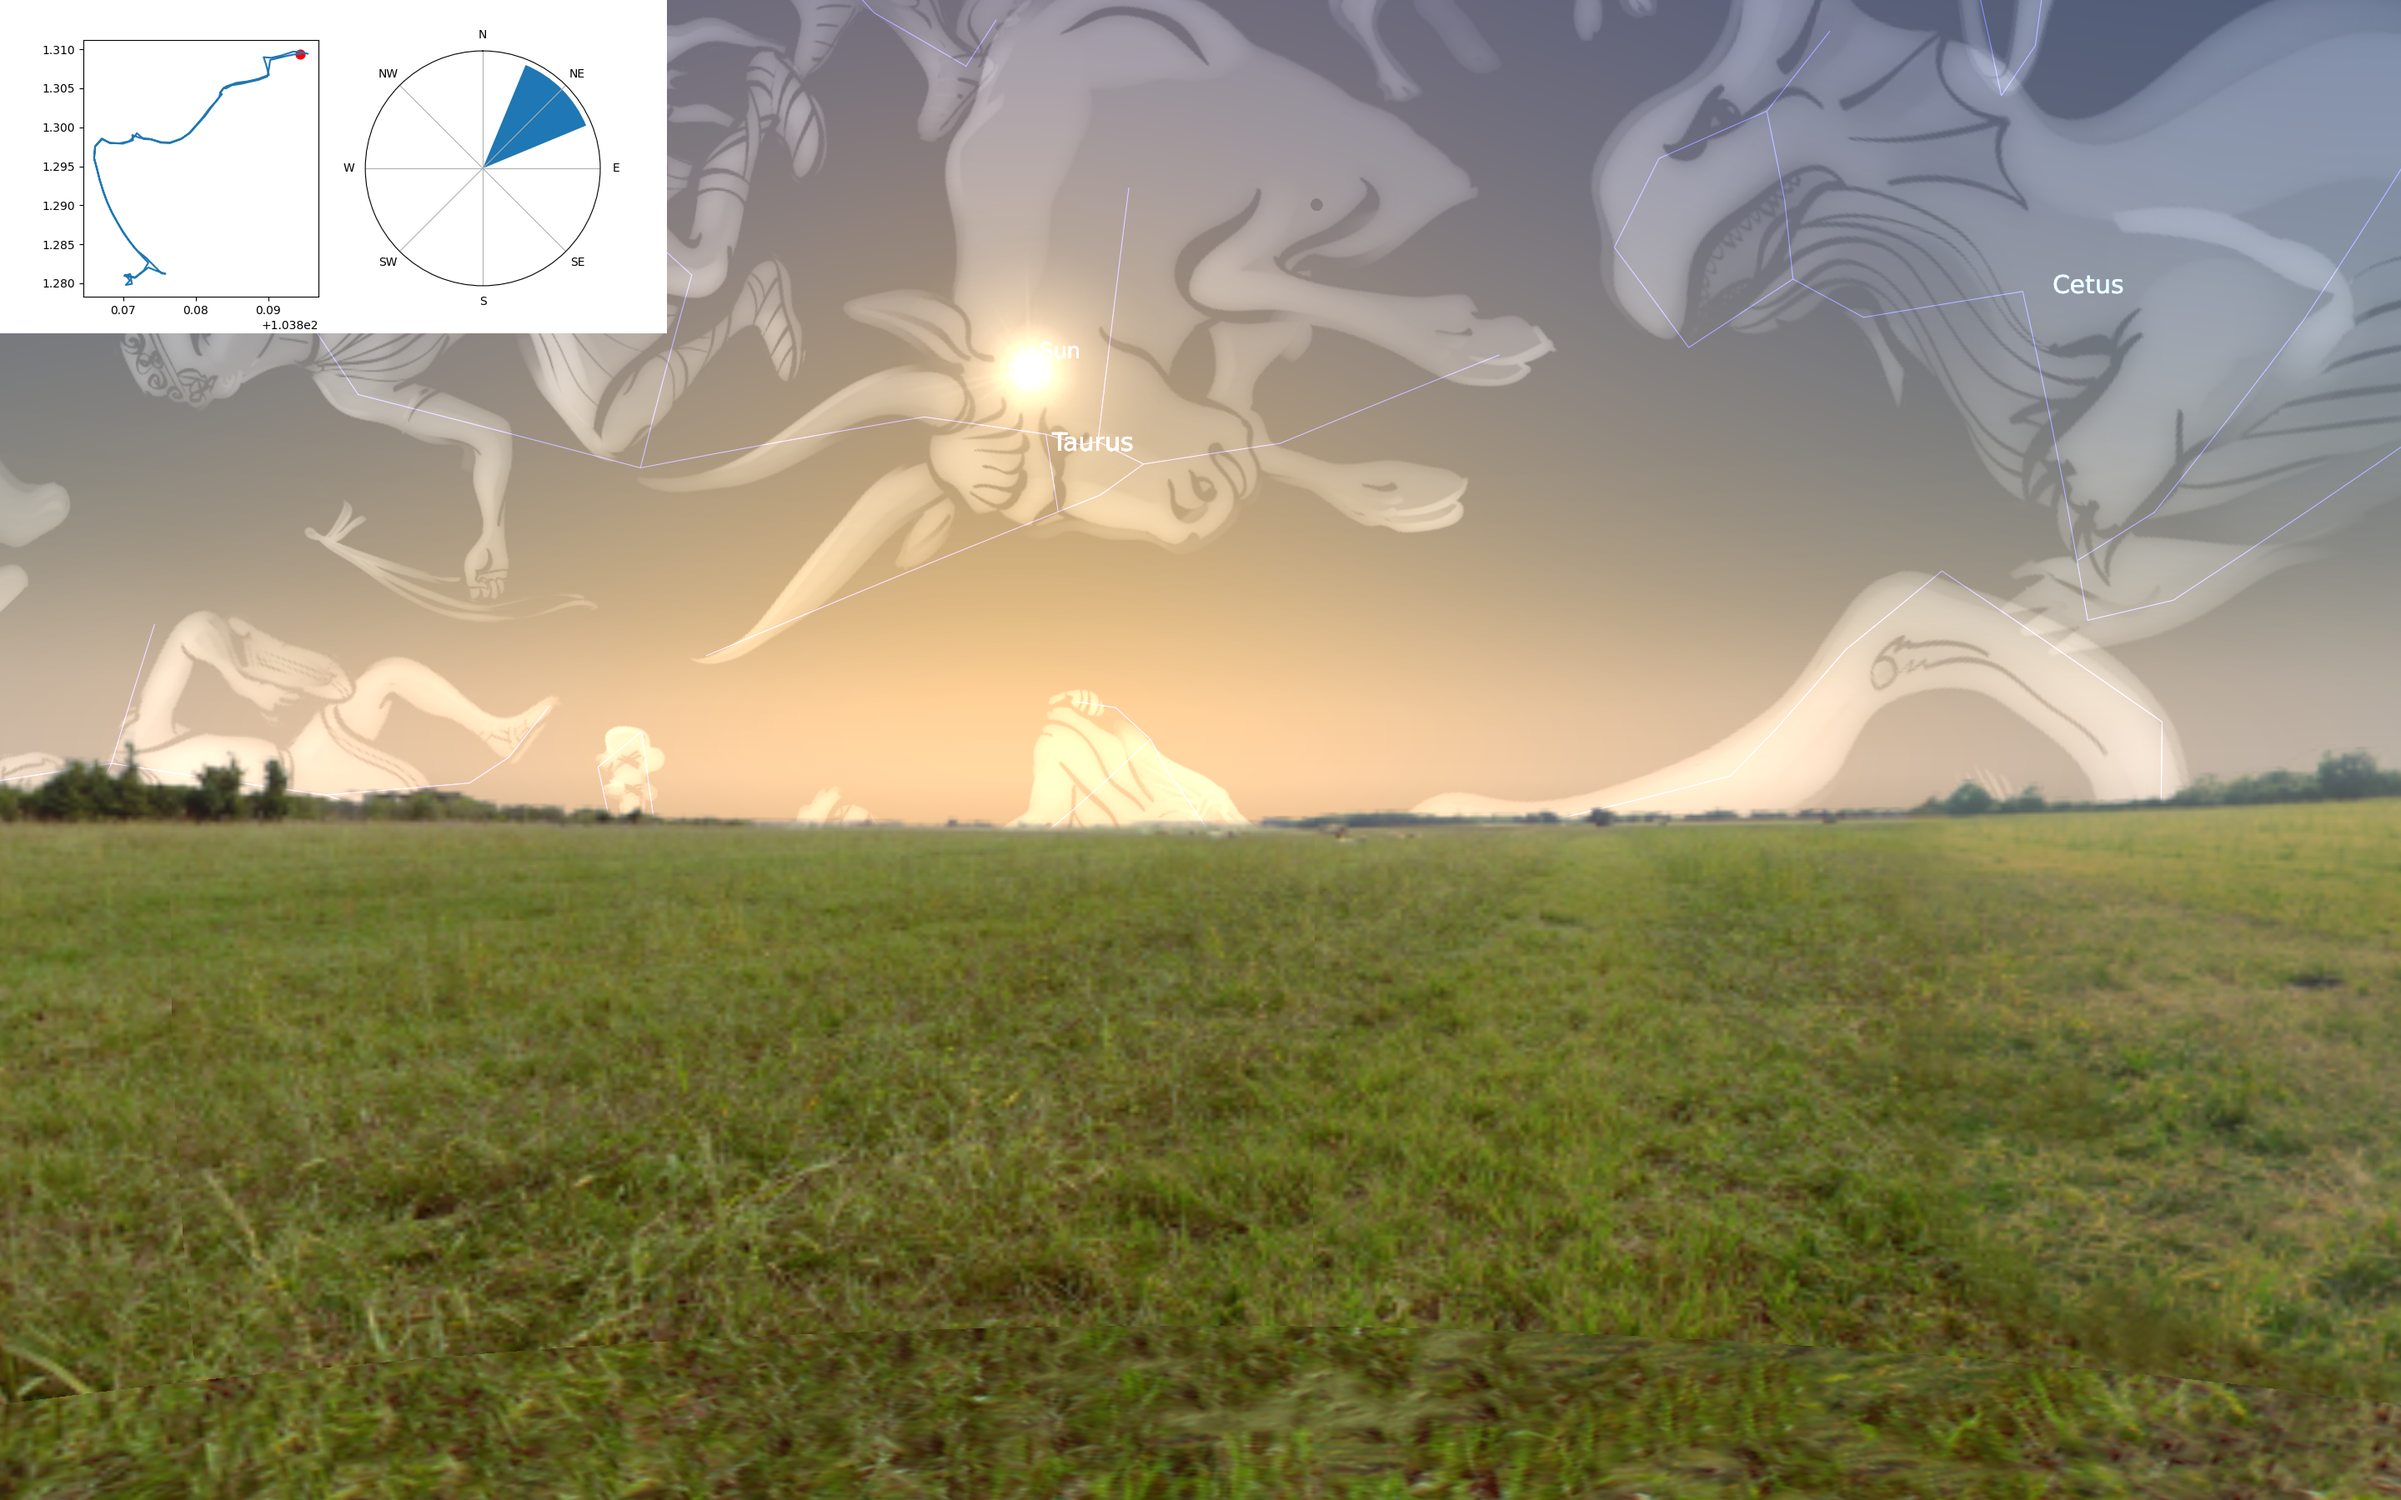
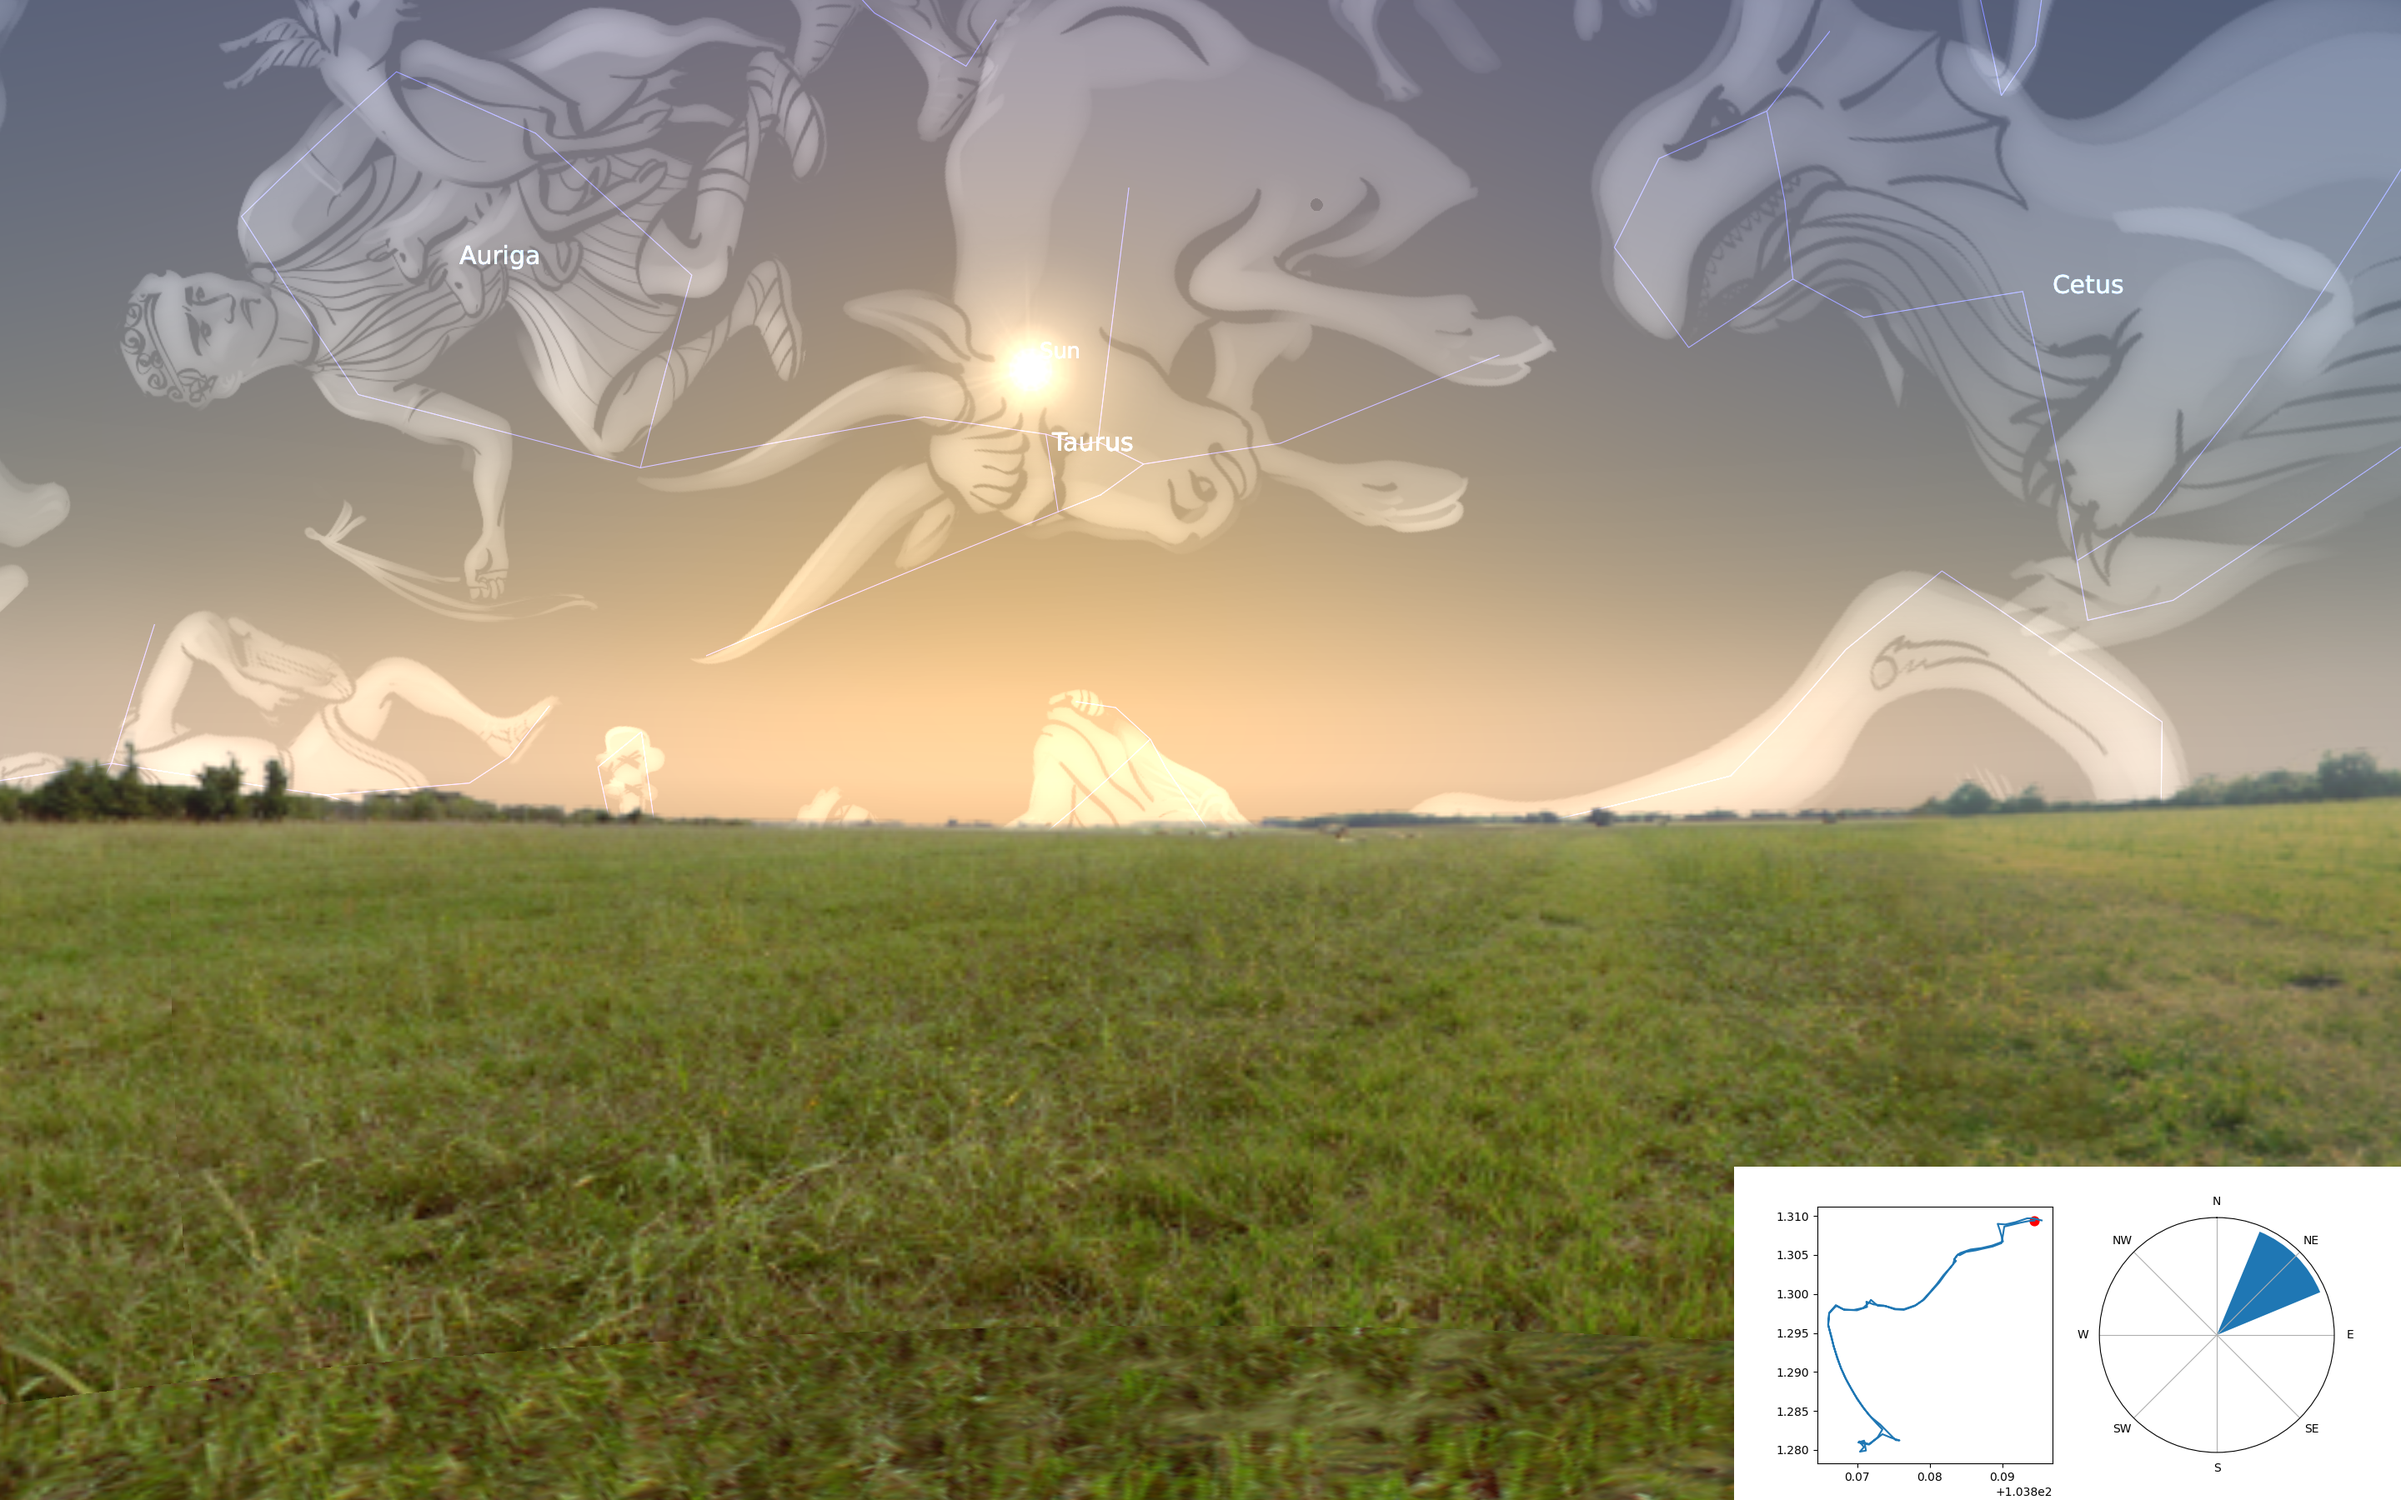
Fix location of the paste

Changed region(s): [[0.7188, 0.7778, 1.0, 1.0], [0.0, 0.0, 0.2812, 0.2489]]

diff --git a/merge_images.py b/merge_images.py
@@ -17,12 +17,22 @@ def main(args):
 
         im1 = Image.open(sky_map_file)
         im2 = Image.open(map_file)
-        im1.paste(im2)
+
+        position = ((im1.width - im2.width), (im1.height - im2.height))
+        im1.paste(
+            im2, 
+            position,
+        )
 
         im1.save(
             'combined_maps/result_' + timestamp + '.png', 
             quality=95
         )
+
+        im1.close()
+        im2.close()
+
+        break
 
 if __name__ == "__main__":
     main(sys.argv[1:])
